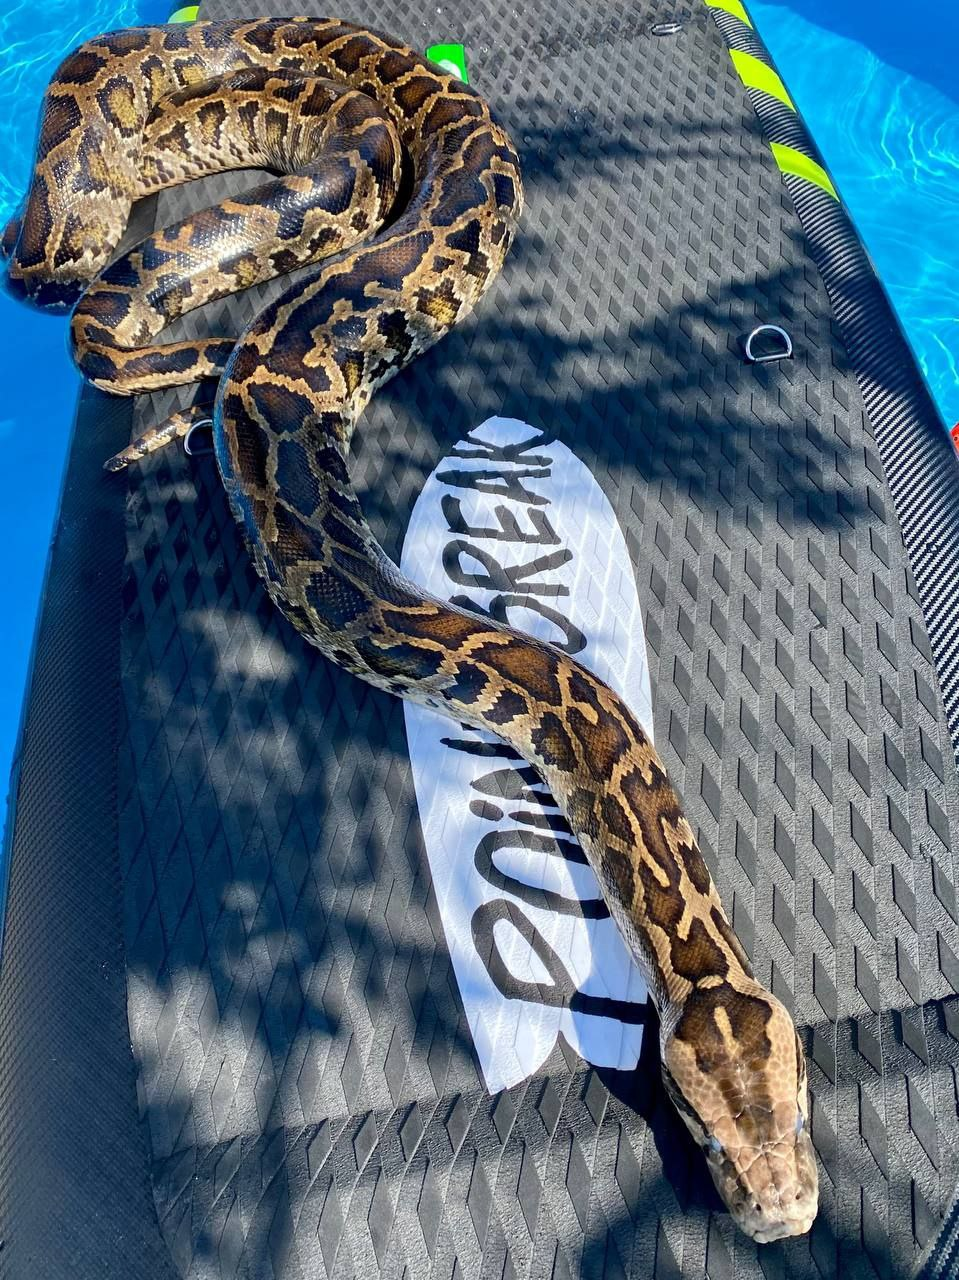
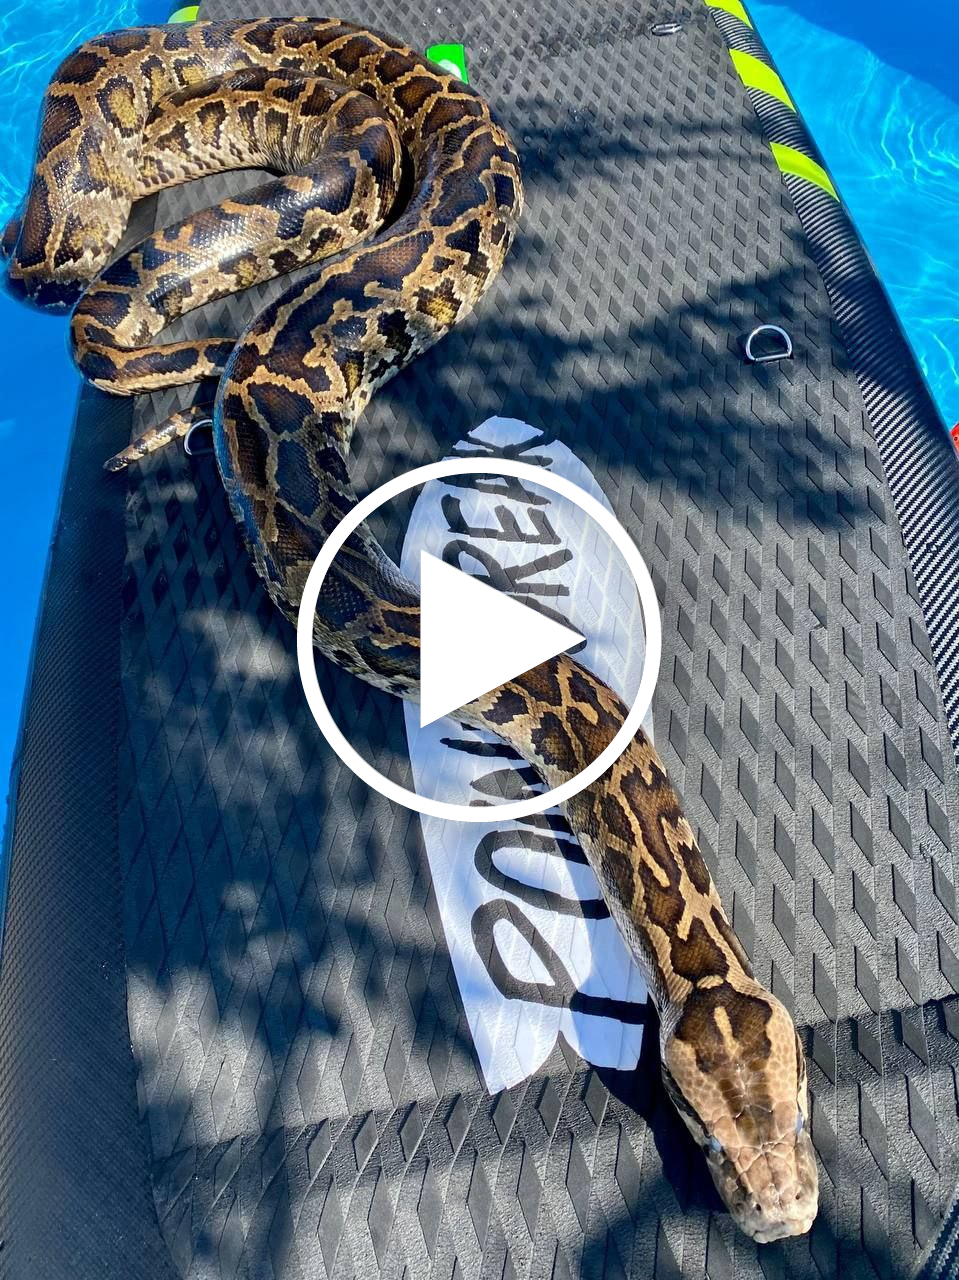
fix

Changed region(s): [[0.3024, 0.3438, 0.6955, 0.6562]]

diff --git a/css/style.css b/css/style.css
@@ -377,6 +377,10 @@ button.btn-close {
     width: 40%;
 }
 
+.video-about-block video {
+    cursor: pointer;
+}
+
 @media(max-width:1199px) {
     .flex-advantages {
         align-items: flex-start;
